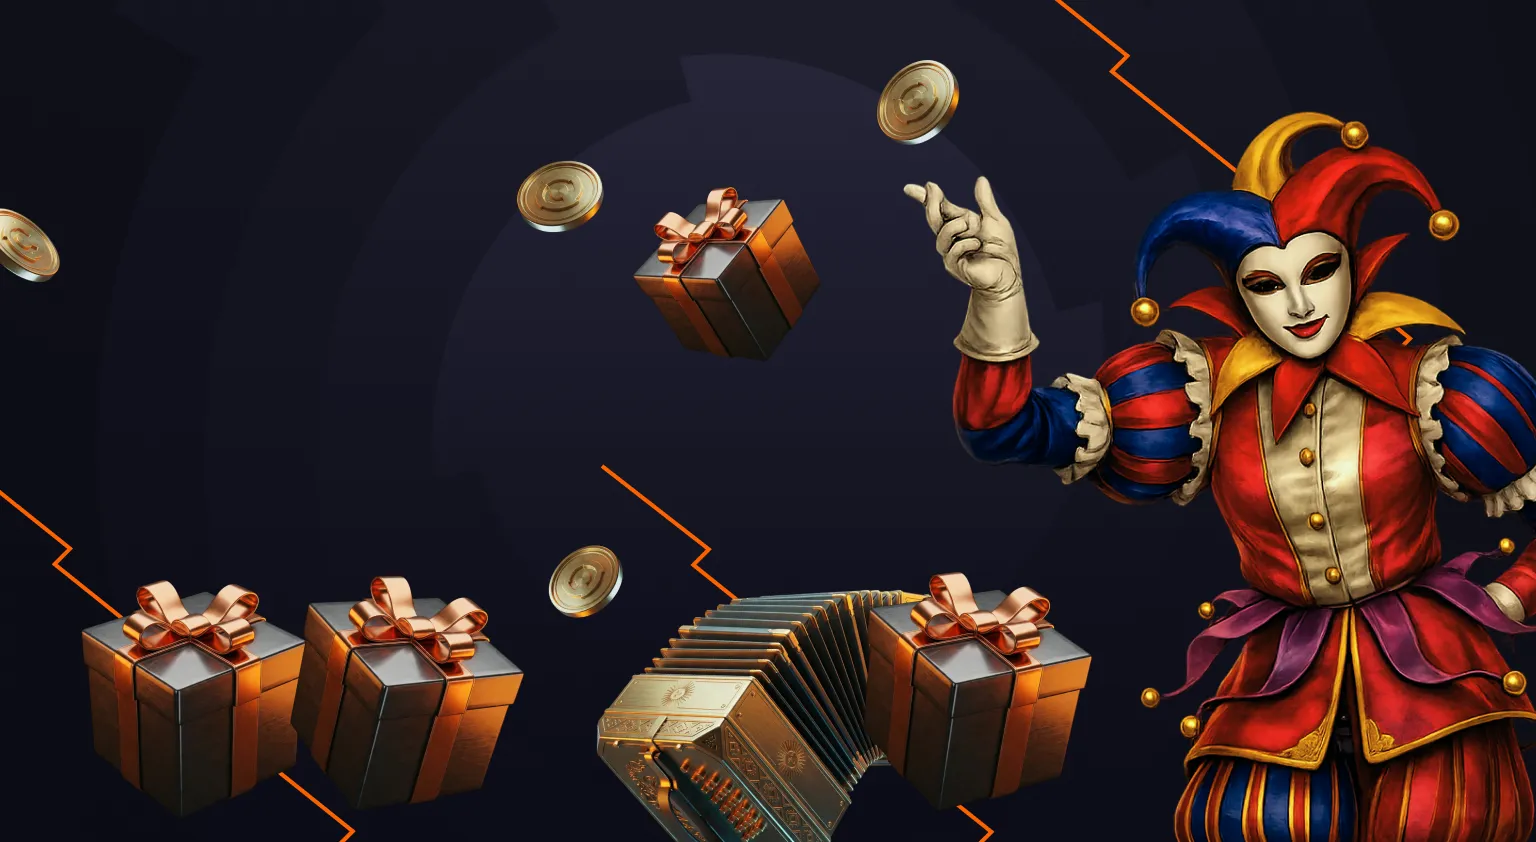
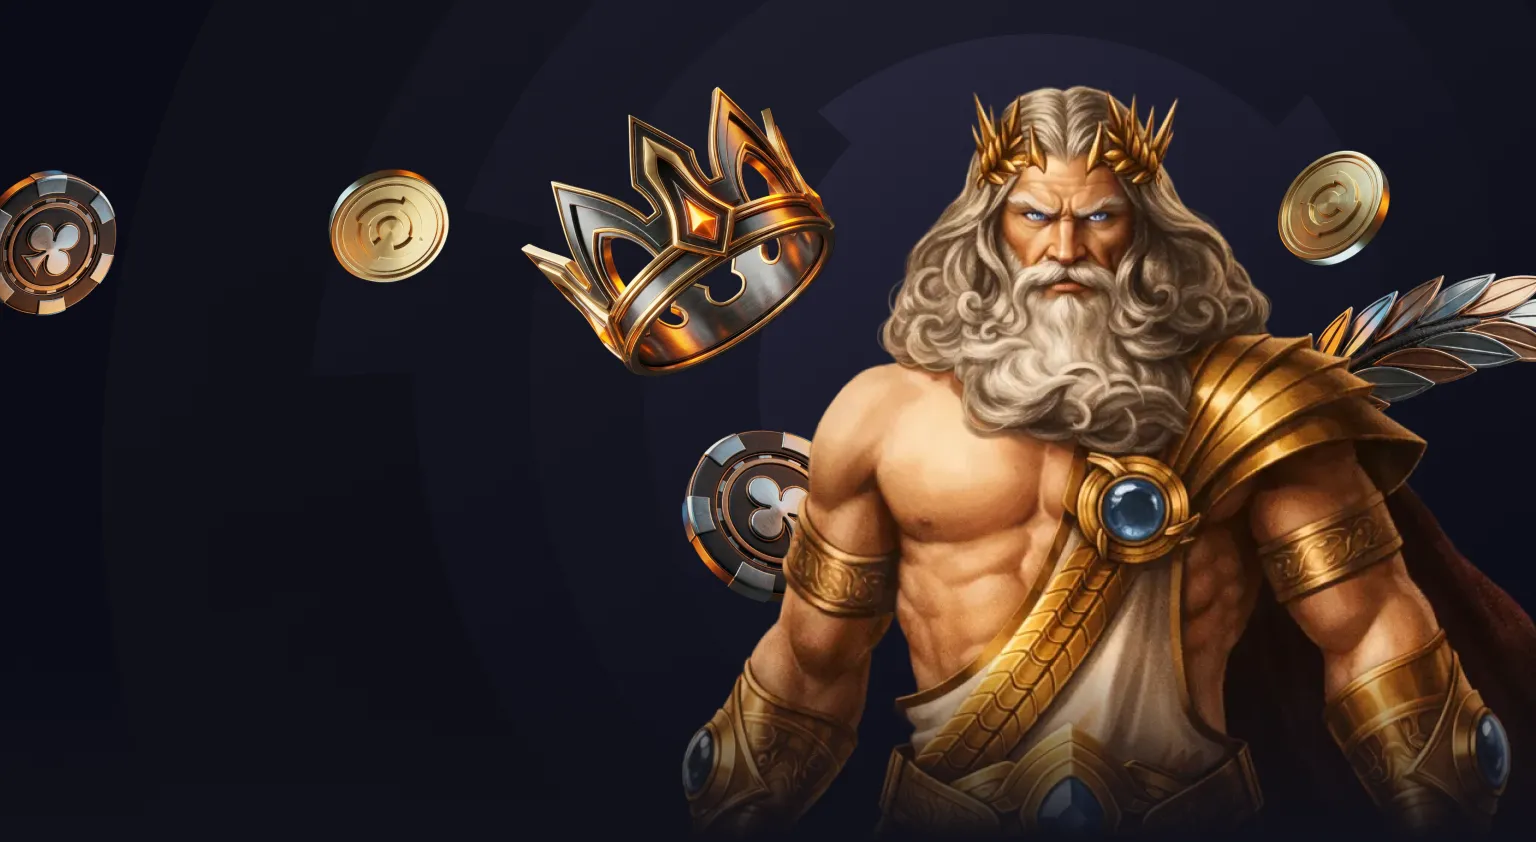
change images and styles

diff --git a/src/styles/page.css b/src/styles/page.css
@@ -123,18 +123,25 @@
   position: absolute;
   z-index: 1;
   /* margin-top: 100px; */
-  top: 60%;
+  top: 65%;
   left: var(--space-md);
   transform: translate(0, -50%);
+  display: flex;
+  flex-direction: column;
+  align-items: flex-start;
+  justify-content: flex-start;
+  gap: 4px;
 
   @media screen and (min-width: 768px) {
     max-width: 85%;
-    top: 50%;
+    top: 58%;
     left: 36px;
+    gap: 14px;
   }
   @media screen and (min-width: 1366px) {
-    top: 60%;
+    top: 78%;
     left: 54px;
+    gap: 28px;
   }
   @media screen and (min-width: 1920px) {
     top: 75%;
@@ -147,11 +154,11 @@
   font-family: var(--font-family-display);
   font-weight: var(--font-weight-bold);
   font-size: 24px;
-  line-height: 30px;
+  line-height: 1;
   text-transform: uppercase;
 
   @media screen and (min-width: 768px) {
-    font-size: 50px;
+    font-size: 44px;
     line-height: 40px;
   }
   @media screen and (min-width: 1366px) {
@@ -166,27 +173,46 @@
 
 .hero__kicker {
   color: var(--color-text);
-  font-size: 34px;
-  padding-left: 28px;
-  margin-bottom: var(--space-xxs);
+  font-size: 30px;
+  padding: 15px 11px;
+  position: relative;
   @media screen and (min-width: 768px) {
-    font-size: 62px;
-    padding-left: 60px;
-    margin-bottom: var(--space-lg);
+    font-size: 53px;
+    padding: 28px 20px;
   }
   @media screen and (min-width: 1366px) {
-    font-size: 80px;
-    padding-left: 50px;
-    margin-bottom: 35px;
+    font-size: 78px;
+    padding: 42px 29px;
   }
   @media screen and (min-width: 1920px) {
     font-size: 150px;
-    padding-left: 80px;
+    padding: 82px 54px;
+  }
+}
+.hero__kicker-text {
+  position: relative;
+  z-index: 2;
+}
+.hero__kicker-bg {
+  position: absolute;
+  top: 0;
+  left: 0;
+  right: 0;
+  bottom: 0;
+  height: 100%;
+  object-fit: contain;
+  z-index: 1;
+  width: 100%;
+  @media screen and (min-width: 768px) {
+  }
+  @media screen and (min-width: 1366px) {
+  }
+  @media screen and (min-width: 1920px) {
   }
 }
 
 .hero__title {
-  color: var(--color-primary);
+  color: var(--color-text);
 }
 
 .form-panel {

diff --git a/index.html b/index.html
@@ -17,7 +17,15 @@
       <section class="hero" aria-label="Welcome bonus">
 
         <div class="hero__content">
-          <p class="hero__kicker">BONO</p>
+          <span class="hero__kicker">
+            <span class="hero__kicker-text">BONO</span>
+            <picture>
+              <source srcset="/images/hero/text-bg-mob.png" media="(max-width: 767px)">
+              <source srcset="/images/hero/text-bg-tab.png" media="(min-width: 768px) and (max-width: 1365px)">
+              <source srcset="/images/hero/text-bg-desk.png" media="(min-width: 1366px)">
+              <img src="/images/hero/text-bg-mob.png" alt="Bono" class="hero__kicker-bg" />
+            </picture>
+          </span>
           <h1 class="hero__title">DE BIENVENIDA</h1>
         </div>
       </section>
@@ -121,7 +129,7 @@
                 </clipPath>
                 </defs>
               </svg>
-              </button>
+            </button>
             <p class="register-form__signin">
               ¿Ya tenés una cuenta?
               <a href="#">Iniciar sesión</a>
